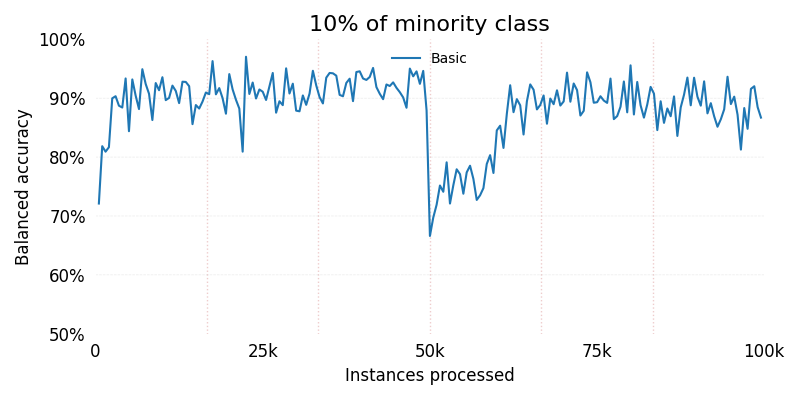
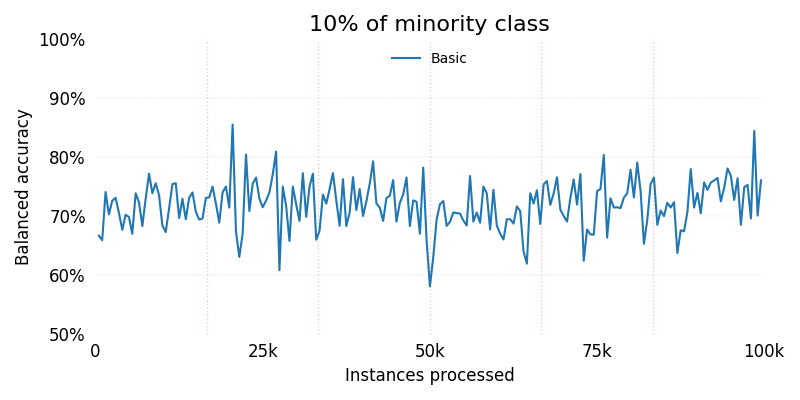
minor changes

Changed region(s): [[0.125, 0.15, 0.9688, 0.72]]

diff --git a/analyze_streams.py b/analyze_streams.py
@@ -38,7 +38,7 @@ score_points = list(range(chunk_size, chunk_size * n_chunks, chunk_size))
 def gather_and_present(title, filename, streams, what):
     results_hypercube = np.zeros((len(streams), len(clfs), n_chunks - 1))
     for i, stream_n in enumerate(streams):
-        results = np.load("results/experiment/%s.npy" % stream_n)
+        results = np.load("results/experiment_streams/%s.npy" % stream_n)
         results_hypercube[i] = results
 
     overall = np.mean(results_hypercube, axis=0)

diff --git a/helper.py b/helper.py
@@ -27,7 +27,7 @@ p = 0.05
 
 def clfs():
     return {
-        "Basic": csm.MDE(decision="min", ensemble_size=20),
+        "Basic": csm.Dumb(ensemble_size=2),
         # "KNN": csm.DESlibStream(desMethod="KNN", oversampled=False, ensemble_size=20),
         # "Clustering": csm.DESlibStream(desMethod="Clustering", oversampled=False, ensemble_size=20),
         # "KNORAE": csm.DESlibStream(desMethod="KNORAE", oversampled=False, ensemble_size=20),

diff --git a/experiment_streams.py b/experiment_streams.py
@@ -34,7 +34,7 @@ def worker(i, stream_n):
 
         stream.reset()
 
-    np.save("results/experiment/%s" % stream, results)
+    np.save("results/experiment_streams/%s" % stream, results)
 
 
 jobs = []

diff --git a/rows/drift_types.tex b/rows/drift_types.tex
@@ -1,0 +1,1 @@
+\emph{sudden} & \bfseries 0.719 \\

diff --git a/rows/distributions.tex b/rows/distributions.tex
@@ -1,0 +1,1 @@
+\emph{10\%} & \bfseries 0.719 \\
